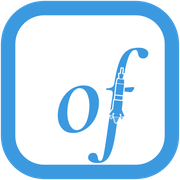
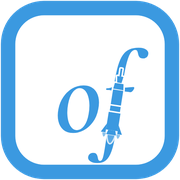
Enlarge the rocket in the f and center it on the stem
Claude-Session: https://claude.ai/code/session_018dero2EA7Tm7RTt93LT1QJ

Changed region(s): [[0.5556, 0.3611, 0.6944, 0.8056]]

diff --git a/hosting.html b/hosting.html
@@ -6,8 +6,8 @@
   <title>ofHuntsville - Free Websites for Huntsville</title>
   <meta name="description" content="Free websites for Huntsville's local businesses, artists and makers, at yourname.ofhuntsville.org.">
   <meta name="robots" content="noindex">
-  <link rel="icon" type="image/png" sizes="32x32" href="hosting/ofh-icon-32.png?v=16">
-  <link rel="apple-touch-icon" href="hosting/ofh-icon-180.png?v=16">
+  <link rel="icon" type="image/png" sizes="32x32" href="hosting/ofh-icon-32.png?v=17">
+  <link rel="apple-touch-icon" href="hosting/ofh-icon-180.png?v=17">
   <link rel="preconnect" href="https://fonts.googleapis.com">
   <link rel="preconnect" href="https://fonts.gstatic.com" crossorigin>
   <link href="https://fonts.googleapis.com/css?family=Montserrat:400,500,600,700,800|Cormorant+Garamond:500i,600i&display=swap" rel="stylesheet">
@@ -167,7 +167,7 @@
 <body>
   <nav class="nav">
     <div class="container">
-      <a class="wordmark" href="#top"><img class="of" src="hosting/of-rocket.png?v=16" alt="of">Huntsville</a>
+      <a class="wordmark" href="#top"><img class="of" src="hosting/of-rocket.png?v=17" alt="of">Huntsville</a>
       <div class="nav-links">
         <a href="#how" class="hide-sm">How it works</a>
         <a href="#pricing" class="hide-sm">Pricing</a>
@@ -317,7 +317,7 @@
     <div class="container">
       <div class="row">
         <div>
-          <a class="wordmark" href="#top"><img class="of" src="hosting/of-rocket.png?v=16" alt="of">Huntsville</a>
+          <a class="wordmark" href="#top"><img class="of" src="hosting/of-rocket.png?v=17" alt="of">Huntsville</a>
           <p class="tag">Websites for the people of Huntsville.</p>
         </div>
         <nav>
